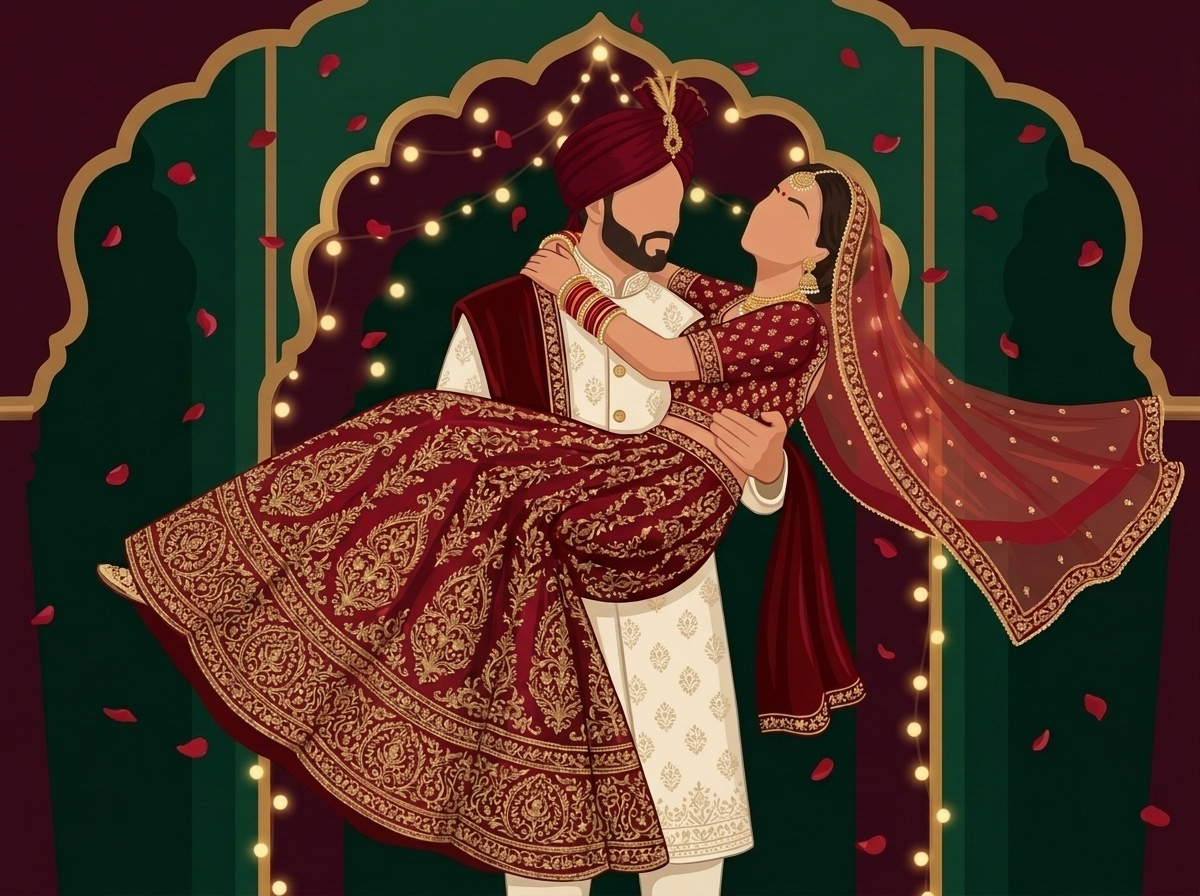
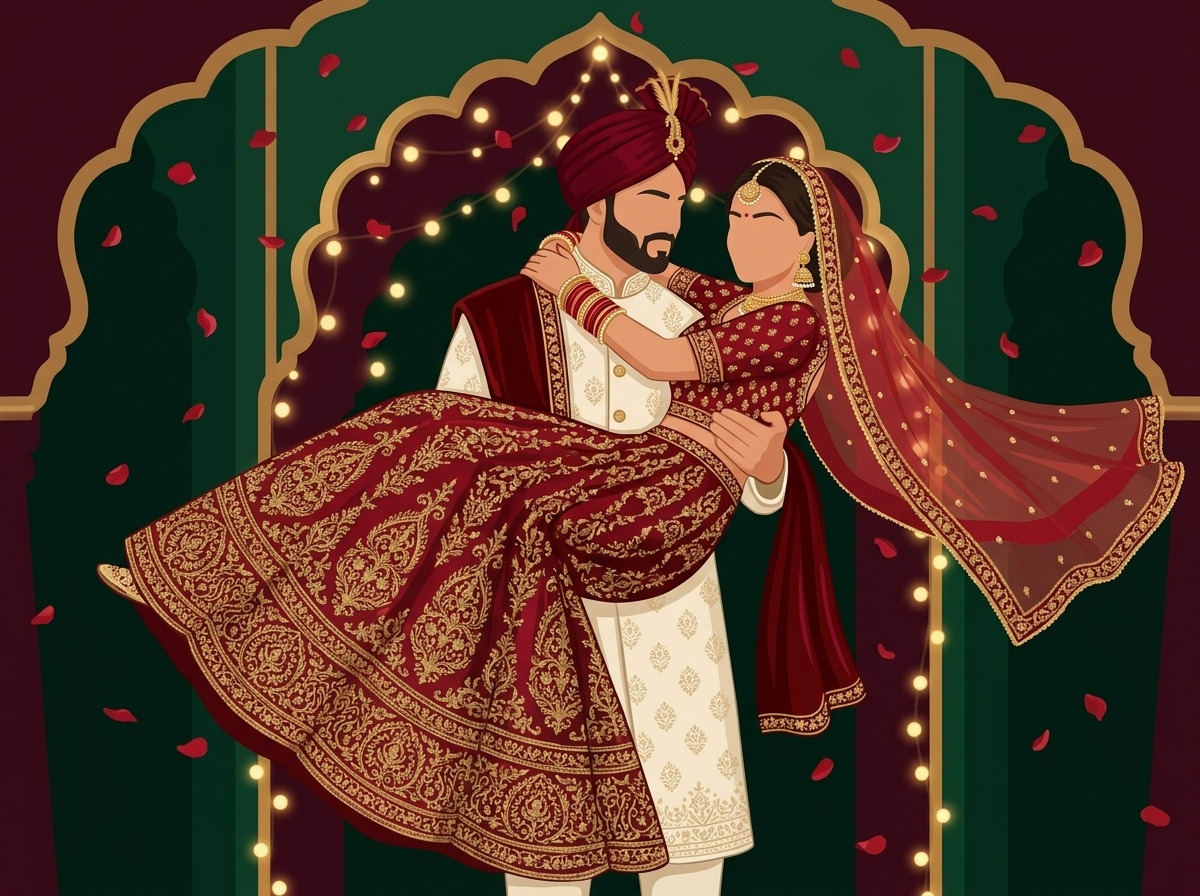
feat: replace UI text with royal heart motif, fix bismillah padding, add front page back nav, remove couple head shake

diff --git a/index.html b/index.html
@@ -77,7 +77,7 @@
       max-width: 100vw;
       overflow-x: hidden;
       position: relative;
-      padding: 1.5rem 1rem 3rem;
+      padding: 2.2rem 1rem 3.5rem;
       display: flex;
       flex-direction: column;
       align-items: center;
@@ -130,10 +130,18 @@
       width: 100%;
       max-width: 820px;
       display: flex;
-      justify-content: flex-end;
+      justify-content: space-between;
+      align-items: center;
       gap: 10px;
-      margin-bottom: 1.2rem;
-      padding: 0.5rem 0.5rem 0;
+      margin-bottom: 1.5rem;
+      padding: 0.2rem 0.5rem 0;
+    }
+
+    .top-controls-left,
+    .top-controls-right {
+      display: flex;
+      align-items: center;
+      gap: 8px;
     }
 
     .ctrl-btn {
@@ -191,21 +199,20 @@
       border: 1px dashed var(--gold-line);
       border-radius: 50%;
     }
-    .monogram-text {
-      font-family: var(--serif);
-      font-size: 2rem;
-      font-weight: 600;
-      letter-spacing: 2px;
-      background: var(--gold-gradient);
-      -webkit-background-clip: text;
-      -webkit-text-fill-color: transparent;
+    .monogram-heart-svg {
+      width: 36px;
+      height: 36px;
+      display: block;
+      filter: drop-shadow(0 2px 6px rgba(0,0,0,0.45));
     }
 
     .bismillah-calligraphy {
       font-family: var(--arabic);
-      font-size: 2.2rem;
-      line-height: 1.3;
-      margin-bottom: 0.8rem;
+      font-size: clamp(2rem, 4.8vw, 2.5rem);
+      line-height: 1.6;
+      margin-top: 0.8rem;
+      margin-bottom: 1.2rem;
+      padding: 0.6rem 0.5rem 0.2rem;
       background: var(--gold-gradient);
       -webkit-background-clip: text;
       -webkit-text-fill-color: transparent;
@@ -355,12 +362,15 @@
       display: flex;
       align-items: center;
       justify-content: center;
-      font-family: var(--serif);
-      font-weight: 700;
-      font-size: 1.25rem;
       box-shadow: 0 4px 12px rgba(0, 0, 0, 0.6), inset 0 2px 4px rgba(255,255,255,0.4);
       cursor: pointer;
       transition: opacity 0.4s ease, transform 0.4s ease;
+    }
+    .wax-seal svg {
+      width: 26px;
+      height: 26px;
+      display: block;
+      filter: drop-shadow(0 1px 2px rgba(0,0,0,0.4));
     }
 
     .letter-slide {
@@ -1100,13 +1110,21 @@
 
   <div class="page-frame">
     <header class="top-controls">
-      <button class="ctrl-btn" id="langToggleBtn" type="button" aria-label="Switch between English and Urdu">
-        <span id="langLabel">اردو / English</span>
-      </button>
-      <button class="ctrl-btn" id="musicToggleBtn" type="button" aria-pressed="false" aria-label="Toggle background music">
-        <span id="musicIcon">♫</span>
-        <span id="musicText">Music: Off</span>
-      </button>
+      <div class="top-controls-left">
+        <button class="ctrl-btn" id="homeNavBtn" type="button" aria-label="Go to front invitation cover" style="display:none;">
+          <span id="homeNavIcon">⌂</span>
+          <span id="homeNavText">Front Page</span>
+        </button>
+      </div>
+      <div class="top-controls-right">
+        <button class="ctrl-btn" id="langToggleBtn" type="button" aria-label="Switch between English and Urdu">
+          <span id="langLabel">اردو / English</span>
+        </button>
+        <button class="ctrl-btn" id="musicToggleBtn" type="button" aria-pressed="false" aria-label="Toggle background music">
+          <span id="musicIcon">♫</span>
+          <span id="musicText">Music: Off</span>
+        </button>
+      </div>
     </header>
 
     <main class="main-canvas" id="app" aria-live="polite"></main>
@@ -1210,12 +1228,13 @@
         musicOff: "Music: Off",
         musicOn: "Music: On",
         musicMissing: "Music not added yet",
-        subTitle: "A Royal Wedding Invitation",
+        subTitle: "You Are Cordially Invited",
         ayahText: "\"And among His signs is that He created for you mates from among yourselves, that you may dwell in tranquility with them, and He has put love and mercy between your hearts.\"",
         ayahRef: "— Surah Ar-Rum (30:21)",
         hostLine: "Mr. & Mrs. Irshad Ali",
         invitationLine: "cordially request the honour of your gracious presence and prayers to celebrate the wedding ceremonies of their beloved son",
         awaitingTitle: "Awaiting to Welcome",
+        frontPageBtn: "Front Page",
         openInviteBtn: "Open Invitation",
         openingBtn: "Opening...",
         letterNote: "With love & prayers",
@@ -1254,12 +1273,13 @@
         musicOff: "موسیقی: بند",
         musicOn: "موسیقی: جاری",
         musicMissing: "موسیقی ابھی دستیاب نہیں",
-        subTitle: "شاہی دعوت نامہ شادی",
+        subTitle: "خوش آمدید / گرامی قدر مہمانان",
         ayahText: "”اور اُس کی نشانیوں میں سے یہ ہے کہ اُس نے تمہارے لیے تمہاری ہی جنس سے جوڑے بنائے تاکہ تم اُن کے پاس سکون حاصل کرو اور تمہارے درمیان محبت اور رحمت پیدا کر دی۔“",
         ayahRef: "— سورۃ الروم (۳۰:۲۱)",
         hostLine: "جناب و محترمہ ارشاد علی",
         invitationLine: "اپنے فرزند ارجمند کی شادی خانۂ آبادی کے پرمسرت موقع پر آپ کی شرکت اور دعاؤں کے متمنی ہیں",
         awaitingTitle: "منتظرینِ کرم / خوش آمدید",
+        frontPageBtn: "سرورق / مین پیج",
         openInviteBtn: "دعوت نامہ کھولیں",
         openingBtn: "کھولا جا رہا ہے...",
         letterNote: "خلوص و دعاؤں کے ساتھ",
@@ -1372,6 +1392,34 @@
       return t.addressTBD;
     }
 
+    function getHeartBadgeSvg(size = 36) {
+      return `
+        <svg class="monogram-heart-svg" viewBox="0 0 40 40" width="${size}" height="${size}" fill="none" xmlns="http://www.w3.org/2000/svg">
+          <defs>
+            <linearGradient id="goldHeartGrad" x1="0%" y1="0%" x2="100%" y2="100%">
+              <stop offset="0%" stop-color="#fff4d0"/>
+              <stop offset="35%" stop-color="#f5d68d"/>
+              <stop offset="70%" stop-color="#d4ad5d"/>
+              <stop offset="100%" stop-color="#9a7126"/>
+            </linearGradient>
+            <linearGradient id="innerGlowGrad" x1="50%" y1="0%" x2="50%" y2="100%">
+              <stop offset="0%" stop-color="#fff" stop-opacity="0.6"/>
+              <stop offset="100%" stop-color="#fff" stop-opacity="0"/>
+            </linearGradient>
+          </defs>
+          <!-- Elegant Interlocking Royal Heart Knot -->
+          <path d="M20 33.5 C19.2 33.5 8 24.8 4.6 18.2 C1.8 12.8 3.5 6.2 9.2 4.6 C13.6 3.4 17.6 5.8 20 9.2 C22.4 5.8 26.4 3.4 30.8 4.6 C36.5 6.2 38.2 12.8 35.4 18.2 C32 24.8 20.8 33.5 20 33.5 Z" 
+                fill="url(#goldHeartGrad)" stroke="#fae8be" stroke-width="1.2" stroke-linejoin="round"/>
+          <!-- Inner Graceful Filigree Arch / Hand-in-Hand Ribbon Motif -->
+          <path d="M12 14.5 C14 10.5 17.5 9.8 20 13.5 C22.5 9.8 26 10.5 28 14.5 C25 20.5 20 25.5 20 25.5 C20 25.5 15 20.5 12 14.5 Z" 
+                fill="rgba(11, 32, 25, 0.45)" stroke="url(#goldHeartGrad)" stroke-width="1" stroke-linecap="round"/>
+          <!-- Center Golden Sparkle Accent -->
+          <circle cx="20" cy="18" r="1.8" fill="#fff" opacity="0.95"/>
+          <path d="M20 14.8 L20 21.2 M16.8 18 L23.2 18" stroke="#fff" stroke-width="0.9" stroke-linecap="round" opacity="0.8"/>
+        </svg>
+      `;
+    }
+
     function buildWelcomeHostsHtml() {
       const t = I18N[currentLang];
       const hosts = WEDDING.welcomeHosts || [];
@@ -1460,10 +1508,7 @@
     function buildBaraatStage() {
       return `
         <div class="illustration-stage seq-step seq-4">
-          <div class="scene-flipbook motion-baraat">
-            <img class="scene-artwork-img frame-1" src="assets/baraat-scene.jpg" alt="Baraat Groom Lifting Bride Illustration" loading="eager">
-            <img class="scene-artwork-img frame-2" src="assets/baraat-scene-2.jpg" alt="" aria-hidden="true" loading="eager">
-          </div>
+          <img class="scene-artwork-img motion-baraat" src="assets/baraat-scene.jpg" alt="Baraat Groom Lifting Bride Illustration" loading="eager">
           <!-- Live Twinkling Mughal Arch Lights & Falling Red Rose Petals Overlay -->
           <svg class="stage-overlay-svg" viewBox="0 0 600 450" preserveAspectRatio="none" xmlns="http://www.w3.org/2000/svg">
             <defs>
@@ -1550,8 +1595,23 @@
        SCREEN RENDERERS
        ============================================================== */
 
+    function updateNavigationControls(viewName) {
+      const homeNavBtn = document.getElementById("homeNavBtn");
+      const homeNavText = document.getElementById("homeNavText");
+      if (!homeNavBtn) return;
+      const t = I18N[currentLang];
+      if (homeNavText) homeNavText.textContent = t.frontPageBtn || "Front Page";
+      
+      if (viewName === "cover") {
+        homeNavBtn.style.display = "none";
+      } else {
+        homeNavBtn.style.display = "inline-flex";
+      }
+    }
+
     function renderEnvelopeScreen() {
       if (activeTimerHandle) clearInterval(activeTimerHandle);
+      updateNavigationControls("cover");
       const t = I18N[currentLang];
       const groom = currentLang === "ur" ? WEDDING.groomUrdu : WEDDING.groom;
       const host = currentLang === "ur" ? WEDDING.hostUrdu : WEDDING.host;
@@ -1568,7 +1628,7 @@
 
         <div class="eyebrow-text rise-in">${t.subTitle}</div>
         <div class="monogram-badge rise-in">
-          <span class="monogram-text">UI</span>
+          ${getHeartBadgeSvg(38)}
         </div>
 
         <div class="hostline rise-in">${host}</div>
@@ -1589,7 +1649,7 @@
             <div class="env-flap"></div>
             <div class="env-inner-pocket"></div>
             <button class="wax-seal" id="waxSealBtn" type="button" aria-label="Open envelope wax seal">
-              <span>UI</span>
+              ${getHeartBadgeSvg(24)}
             </button>
           </div>
         </div>
@@ -1627,6 +1687,7 @@
 
     function renderEventListScreen() {
       if (activeTimerHandle) clearInterval(activeTimerHandle);
+      updateNavigationControls("events");
       const { card } = getUrlState();
       const validEventKeys = CARD_VARIANTS[card] || CARD_VARIANTS.all;
       const t = I18N[currentLang];
@@ -1654,7 +1715,7 @@
       app.innerHTML = `
         <div class="bismillah-calligraphy fade-in">بِسْمِ اللَّهِ الرَّحْمَٰنِ الرَّحِيمِ</div>
         <div class="monogram-badge rise-in">
-          <span class="monogram-text">UI</span>
+          ${getHeartBadgeSvg(38)}
         </div>
         <div class="eyebrow-text rise-in">${t.eventsTitle}</div>
         <h2 class="couple-title rise-in" style="font-size:clamp(1.8rem, 4.5vw, 2.5rem); margin-bottom: 0.2rem;">
@@ -1684,6 +1745,7 @@
 
     function renderEventDetailScreen(eventKey) {
       if (activeTimerHandle) clearInterval(activeTimerHandle);
+      updateNavigationControls("detail");
       const { card } = getUrlState();
       const validEventKeys = CARD_VARIANTS[card] || CARD_VARIANTS.all;
       const t = I18N[currentLang];
@@ -1732,7 +1794,7 @@
             <div class="seq-step seq-1">
               <div class="eyebrow-text">${meta.number} · ${currentLang === 'ur' ? 'تقریب' : 'Celebration'}</div>
               <div class="monogram-badge">
-                <span class="monogram-text">UI</span>
+                ${getHeartBadgeSvg(38)}
               </div>
             </div>
 
@@ -1820,6 +1882,7 @@
     }
 
     function renderUnavailableScreen() {
+      updateNavigationControls("unavailable");
       const { card } = getUrlState();
       const t = I18N[currentLang];
       app.innerHTML = `
@@ -1950,6 +2013,16 @@
 
     const langToggleBtn = document.getElementById("langToggleBtn");
     const langLabel = document.getElementById("langLabel");
+    const homeNavBtn = document.getElementById("homeNavBtn");
+
+    if (homeNavBtn) {
+      homeNavBtn.addEventListener("click", () => {
+        const { card } = getUrlState();
+        updateUrlState(card, null, true);
+        renderEnvelopeScreen();
+        window.scrollTo({ top: 0, behavior: "smooth" });
+      });
+    }
 
     function setLanguage(lang) {
       currentLang = lang;
